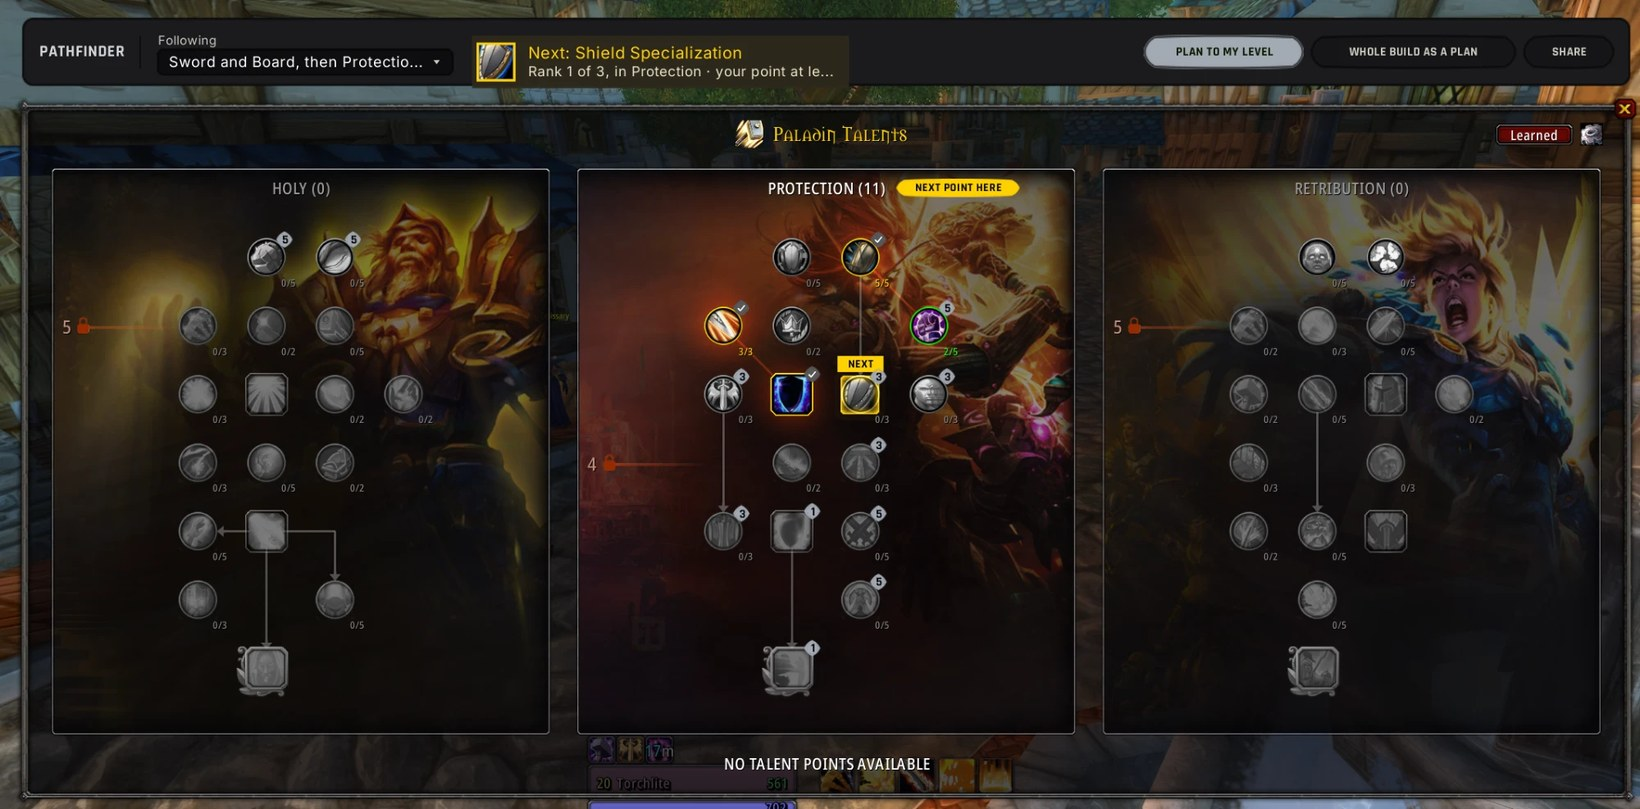
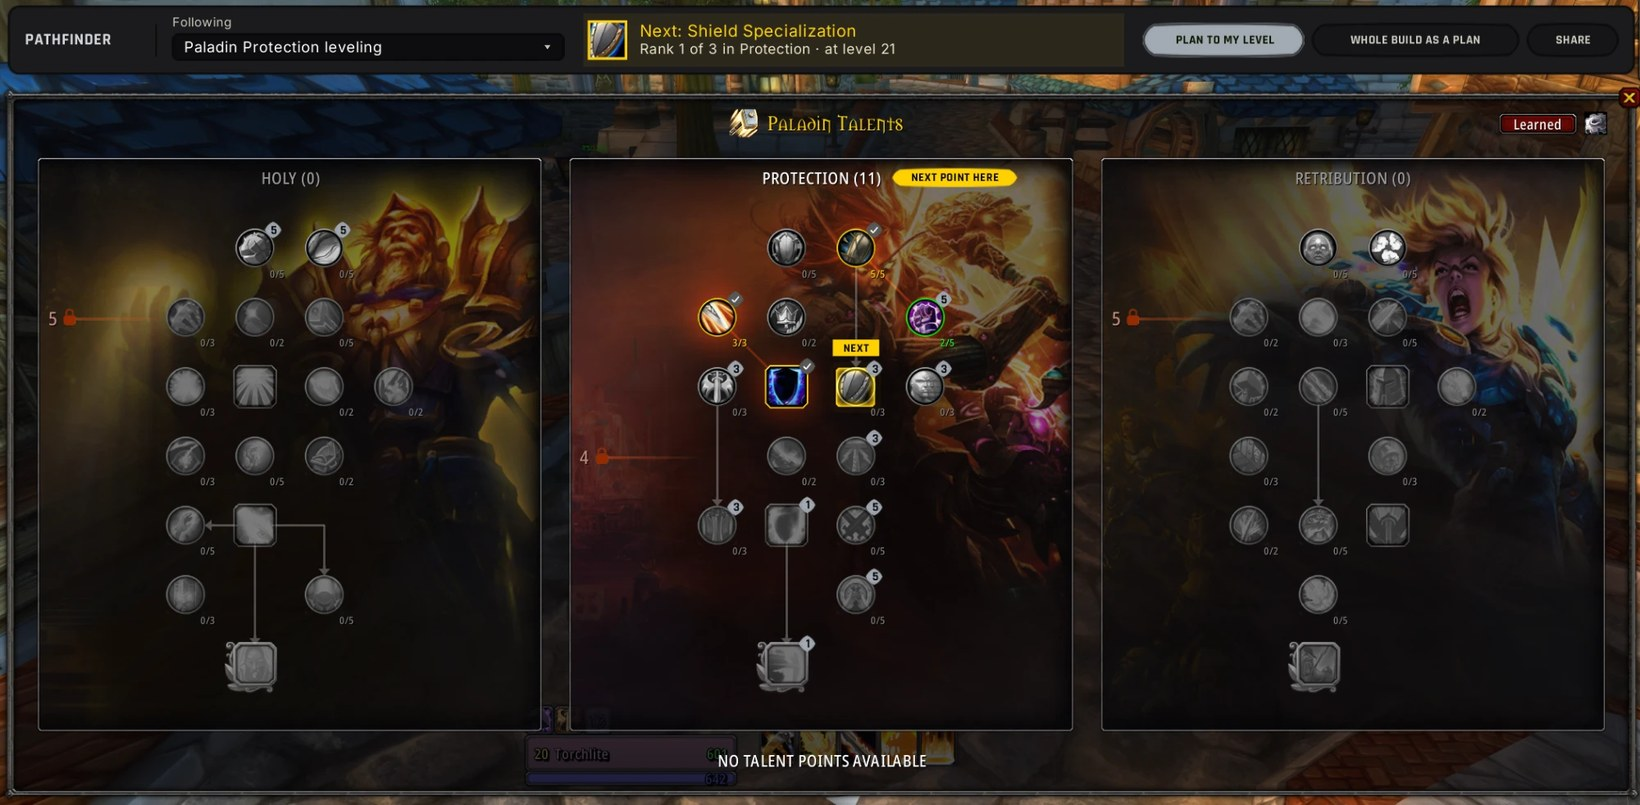
README: Modern Spellbook picture from 0.22.24
The Talent Advisor's Modern Spellbook picture is now an in-game screenshot
on 0.22.24: Paladin Protection leveling, the card's line whole, NEXT clear
of the badge. The 0.22.23 caption stays with the Blizzard and pfUI pictures.

Claude-Session: https://claude.ai/code/session_01XiMjJedyYgiZAb2vbxvU5A

diff --git a/README.md b/README.md
@@ -181,6 +181,10 @@ With pfUI it sits on pfUI's frame.
 | :---: | :---: |
 | <img src="docs/images/talent-window.jpg" width="340" alt="Blizzard's talent window in game for a Paladin, on Protection: the Pathfinder strip on its top edge with the build to follow and a card, Next: Shield Specialization, rank 1 of 3; the talents taken ticked, the rest with the build's points, Shield Specialization ringed in gold with NEXT over it, and a gold dot on the Protection tab"> | <img src="docs/images/talent-window-pfui.jpg" width="340" alt="The same talent window with pfUI's skin: the strip sits on pfUI's frame, with the same marks on the talents and the gold dot on the Protection tab"> |
 
+<p align="center"><sub>In game, on 0.22.23. Since 0.22.24 the shield build is
+called Protection ("Protection leveling, then Protection at 60"), the card's
+second line fits, and NEXT sits clear of the talent's badge.</sub></p>
+
 On a level up a card names the talent to take, and the talents button lights
 up until you spend the point.
 
@@ -192,13 +196,9 @@ learn. **Share** gives the build as its build string, and follows a string
 someone shares with you.
 
 <p align="center">
-  <img src="docs/images/talent-modern-spellbook.jpg" width="820" alt="Modern Spellbook's talent window in game for a Paladin, all three trees side by side: the Pathfinder strip across its top with the build to follow, the card naming Shield Specialization, and Plan to my level, Whole build as a plan and Share; NEXT POINT HERE beside Protection, the talents taken ticked, the rest with the build's points, and Shield Specialization ringed in gold with NEXT over it">
+  <img src="docs/images/talent-modern-spellbook.jpg" width="820" alt="Modern Spellbook's talent window in game for a Paladin, all three trees side by side: the Pathfinder strip across its top, following Paladin Protection leveling, the card saying Next: Shield Specialization, rank 1 of 3 in Protection at level 21, and Plan to my level, Whole build as a plan and Share; NEXT POINT HERE beside Protection, the talents taken ticked, the rest with the build's points, and Shield Specialization ringed in gold with NEXT over it"><br>
+  <sub>In game, on 0.22.24.</sub>
 </p>
-
-<p align="center"><sub>In game, on 0.22.23. Since 0.22.24 the shield build is
-called Protection ("Protection leveling, then Protection at 60"), the card's
-second line fits ("Rank 1 of 3 in Protection · at level 21"), and NEXT sits
-clear of the talent's badge.</sub></p>
 
 The builds are made on Turtle WoW's own trees, and each is checked against the
 tree your game has before it is followed. It never spends a point.

diff --git a/docs/TESTING.md b/docs/TESTING.md
@@ -14,8 +14,9 @@ what the **Error log** says (Options → Maintenance).
 Passed so far: the 2026-09-28 pass (sections 1–11 as they were then; party
 sharing only lightly) and the Gear Finder tab at 0.22.1 (2026-10-01).
 Screenshots at 0.22.23 (2026-10-03) showed the talent strips and marks on
-Blizzard's window, with pfUI and on Modern Spellbook (the README's pictures);
-0.22.24 tidied what they showed, so those items wait for a look on 0.22.24.
+Blizzard's window and with pfUI (the README's pictures); 0.22.24 tidied what
+they showed, so those items wait for a look on 0.22.24. A screenshot at
+0.22.24 shows Modern Spellbook's strip and marks (the README's picture).
 
 Start with a **full client restart** (not `/reload`): new textures and files
 are only found at startup.
